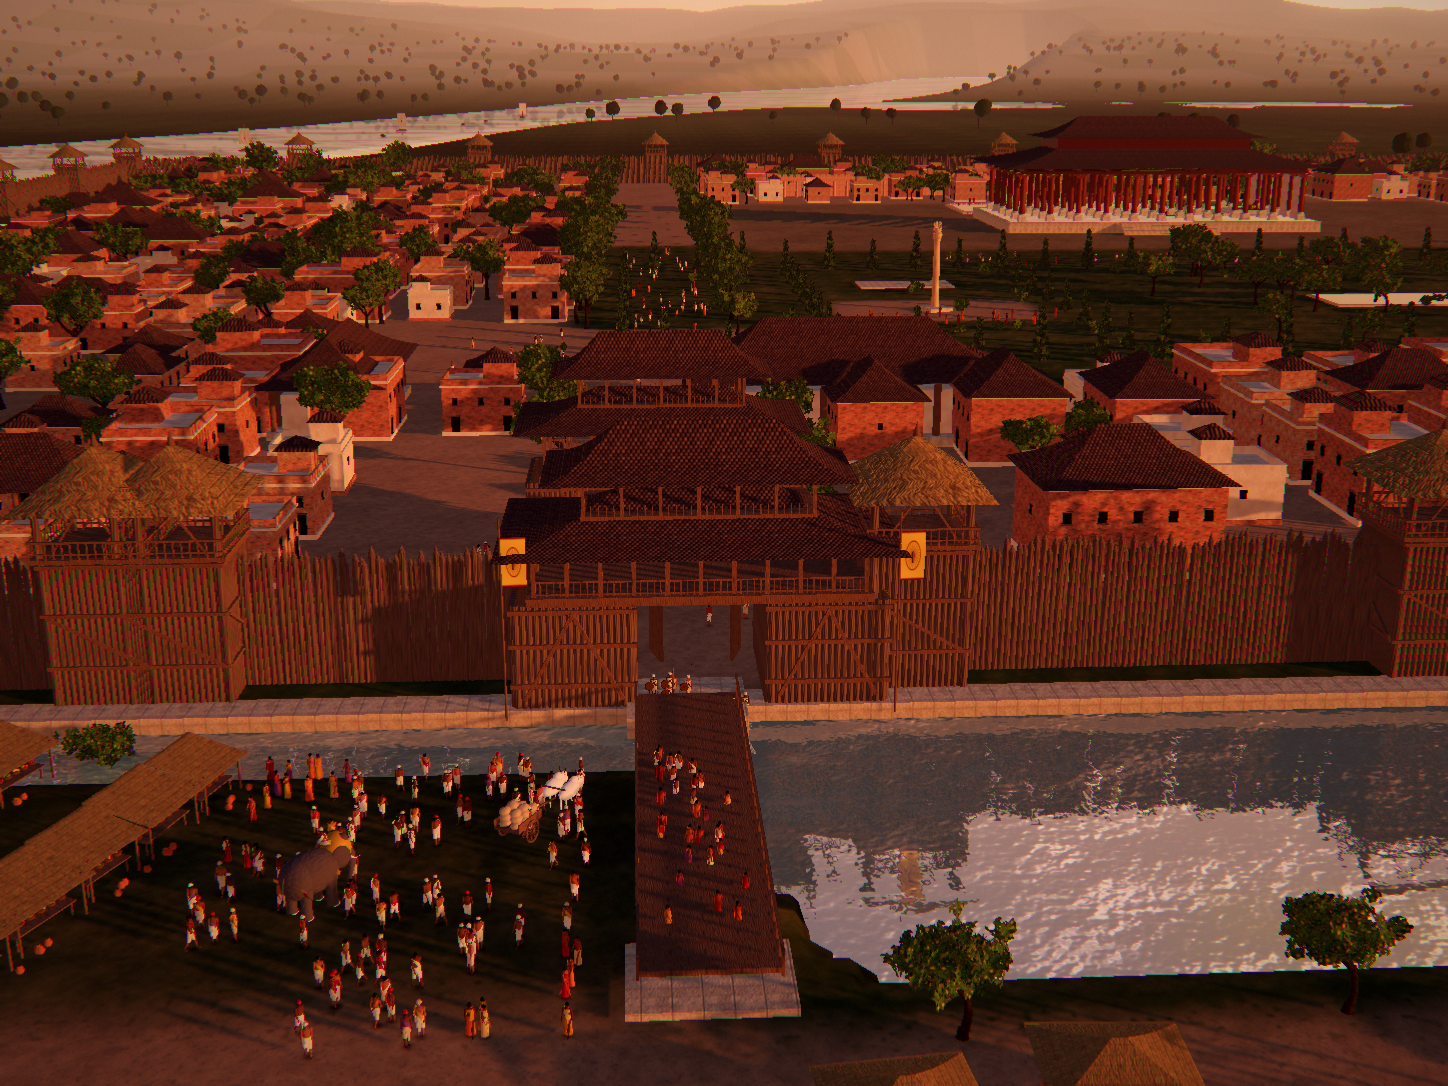
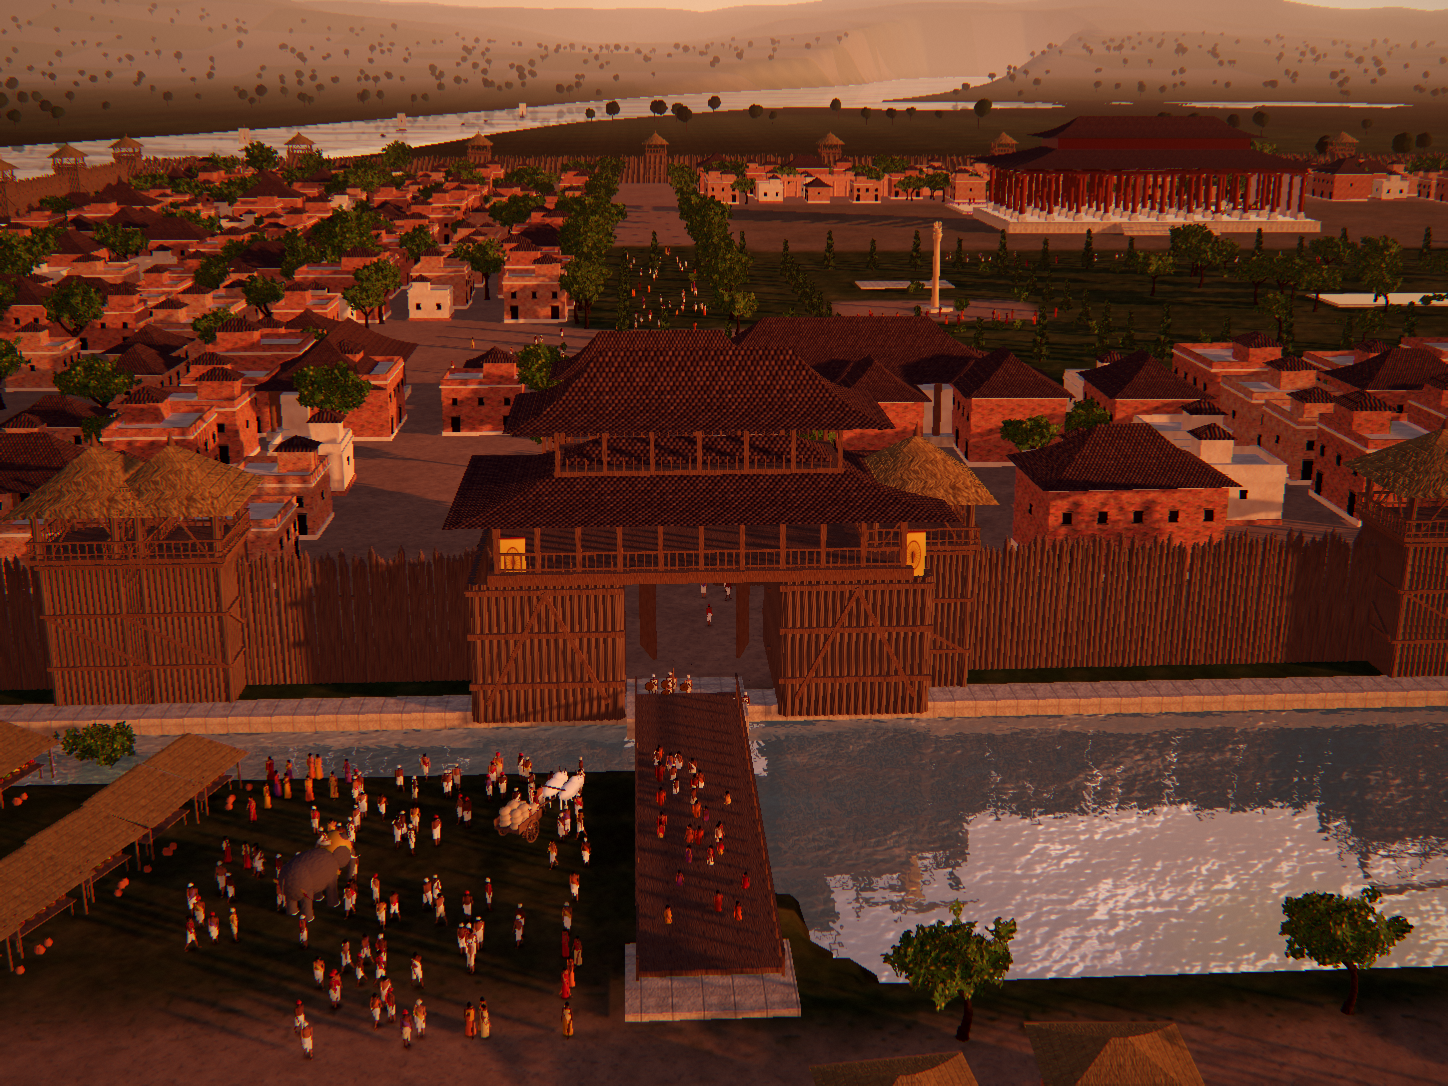
v0.8: hall reflections and re-blocking, stupa hill boulders and countryside, larger gate, denser town; add version log
Claude-Session: https://claude.ai/code/session_0162mTPdSB4sTmVTjs86gVkC

diff --git a/src/world.js b/src/world.js
@@ -1,6 +1,7 @@
 import * as THREE from 'three';
 import * as A from './assets.js';
 import { rng } from './textures.js';
+import { Reflector } from 'three/addons/objects/Reflector.js';
 import { height, HILL, MOAT, riverDist, riverHalfWidth, WATER_Y, makeGroundMask } from './env.js';
 
 const C = (h) => new THREE.Color(h);
@@ -19,7 +20,7 @@ export class Instancer {
       thatch: M.thatch, tiles: M.roofTiles, tilesRed: M.roofTilesRed, brick: M.brick, brickPale: M.brickPale, mud: M.mud, basket: M.straw,
       goods0: std({ color: 0xd8761e, roughness: 0.6 }), goods1: std({ color: 0xb02a1e, roughness: 0.5 }), goods2: std({ color: 0x6a8a2a, roughness: 0.6 }), goods3: std({ color: 0xe0b030, roughness: 0.7 }),
       sail: M.fabric(0xe0d4b8),
-      gold: M.gold, iron: M.iron, eye: std({ color: 0x1a1410, roughness: 0.3 }), lips: std({ color: 0x5a2a22, roughness: 0.6 }), stubble: std({ color: 0x4a3428, roughness: 0.8 }),
+      gold: M.gold, iron: M.iron, eye: std({ color: 0x1a1410, roughness: 0.3 }), lips: std({ color: 0x5a2a22, roughness: 0.6 }), stubble: std({ color: 0xffffff, roughness: 0.75 }),
       contact: new THREE.MeshBasicMaterial({ color: 0x000000, alphaMap: contactTex(), transparent: true, opacity: 0.75, depthWrite: false, polygonOffset: true, polygonOffsetFactor: -2 }),
     };
     for (const k of ['garment', 'shawl', 'accent']) this.base[k].side = THREE.DoubleSide;
@@ -166,7 +167,7 @@ export function buildWorld(scene, M) {
   for (const [x, z] of towersAt) { const key = Math.round(x / 8) + ',' + z; if (seen.has(key)) continue; seen.add(key); I.put('tower', x, 0, z, 0, 1); }
 
   // gatehouse
-  const gh = A.gatehouse({ w: 22, d: 11, h: 14 }); I.register('gatehouse', gh, {}); I.put('gatehouse', 0, 0, 0, 0, 1);
+  const gh = A.gatehouse({ w: 22, d: 11, h: 14 }); I.register('gatehouse', gh, {}); I.put('gatehouse', 0, 0, 0, 0, [1.2, 1.25, 1.2]);
   // inner taller gate pavilion behind
   I.register('gatehouse2', A.gatehouse({ w: 20, d: 9, h: 18 }), {}); I.put('gatehouse2', -2, 0, -24, 0, 0.95);
   // banners with chakra on poles flanking the gate
@@ -370,7 +371,7 @@ function buildPalaceHall(G, I, M, ref, person, treeAt) {
   b.add(new THREE.BoxGeometry(0.8, colH + 2, D), 'wallP', [W / 2 + 0.4, fy + (colH + 2) / 2, 0]);
   // throne dais: 4 steps
   const tx = W / 2 - 9;
-  for (let k = 0; k < 4; k++) b.add(new THREE.BoxGeometry(16 - k * 1.6, 0.3, 14 - k * 1.6), 'pstone', [tx + k * 0.8, fy + 0.15 + k * 0.3, 0]);
+  for (let k = 0; k < 4; k++) b.add(new THREE.BoxGeometry(10 - k * 1.2, 0.3, 12 - k * 1.4), 'pstone', [tx + 1 + k * 0.6, fy + 0.15 + k * 0.3, 0]);
   const dy = fy + 1.2; ref.pois.throne = new THREE.Vector3(cx + tx + 3.5, dy, cz);
   // throne: seat, back, lion armrests
   b.add(new THREE.BoxGeometry(1.6, 0.7, 1.4), 'cwood', [tx + 3.5, dy + 0.35, 0]);
@@ -381,7 +382,7 @@ function buildPalaceHall(G, I, M, ref, person, treeAt) {
   const lionG = A.lion({});
   for (const s of [-1, 1]) { const lb = new A.AB(); for (const [k, g] of Object.entries(lionG)) lb.add(g, 'gold'); b.merge(lb, [tx + 3.3, dy + 0.15, s * 1.05], [0, -Math.PI / 2, 0], 1.25); }
   // stepped carpet runner
-  b.add(new THREE.BoxGeometry(14, 0.02, 3), 'rug', [tx - 8, fy + 0.01, 0]);
+  b.add(new THREE.BoxGeometry(6, 0.02, 3), 'rug', [tx - 7, fy + 0.01, 0]);
   // low writing desks and mats
   const parts = b.build();
   const std = (o) => new THREE.MeshStandardMaterial(o);
@@ -389,22 +390,25 @@ function buildPalaceHall(G, I, M, ref, person, treeAt) {
   I.put('hall', cx, 0.4, cz, 0, 1);
   // separate polished floor (reflective-ish)
   const floor = new THREE.Mesh(new THREE.PlaneGeometry(W + 6, D + 6), M.hallFloor); floor.rotation.x = -Math.PI / 2; floor.position.set(cx, fy + 0.4 + 0.01, cz); floor.receiveShadow = true; G.add(floor);
+  const refl = new Reflector(new THREE.PlaneGeometry(W + 6, D + 6), { textureWidth: 1024, textureHeight: 576, clipBias: 0.003, color: 0xffffff });
+  refl.material.transparent = true; refl.material.depthWrite = false;
+  refl.material.fragmentShader = refl.material.fragmentShader.replace('gl_FragColor = vec4( blendOverlay( base.rgb, color ), 1.0 );', 'gl_FragColor = vec4( base.rgb * vec3(1.0, 0.92, 0.8), 0.32 );');
+  refl.rotation.x = -Math.PI / 2; refl.position.set(cx, fy + 0.4 + 0.02, cz); G.add(refl); ref.hallReflector = refl;
   // big banner behind throne
   const ban = new THREE.Mesh(new THREE.PlaneGeometry(4.2, 7.5, 6, 12), M.bannerHall);
   ban.position.set(cx + W / 2 - 0.2, fy + 6.2, cz); ban.rotation.y = -Math.PI / 2; G.add(ban);
   for (const s of [-1, 1]) { const st = new THREE.Mesh(new THREE.PlaneGeometry(0.35, 7.6), M.clothMaroon); st.position.set(cx + W / 2 - 0.25, fy + 6.2, cz + s * 2.2); st.rotation.y = -Math.PI / 2; G.add(st); }
   // brass pot of lotuses near steps
   const pot = new THREE.Mesh(A.lathe([[0, 0], [0.35, 0.05], [0.55, 0.35], [0.5, 0.7], [0.38, 0.85], [0.45, 0.95], [0.4, 0.97]], 32), M.gold);
-  const yy = fy + 0.4; pot.position.set(cx + tx - 9.5, yy, cz + 3.6); pot.castShadow = true; G.add(pot);
+  const yy = fy + 0.4; pot.position.set(cx + tx - 5.2, yy, cz + 2.4); pot.castShadow = true; G.add(pot);
   const lotusMat = new THREE.MeshStandardMaterial({ color: 0xf0a0b8, roughness: 0.6, side: THREE.DoubleSide });
   for (let i = 0; i < 9; i++) { const a = i / 9 * 6.28; const fl = new THREE.Mesh(new THREE.ConeGeometry(0.16, 0.28, 8, 1, true), lotusMat); fl.position.set(pot.position.x + Math.cos(a) * 0.25, yy + 1.1 + (i % 3) * 0.08, pot.position.z + Math.sin(a) * 0.25); fl.rotation.x = Math.PI; G.add(fl); const lf = new THREE.Mesh(new THREE.CircleGeometry(0.22, 10), new THREE.MeshStandardMaterial({ color: 0x4a6a2a, side: THREE.DoubleSide })); lf.position.set(pot.position.x + Math.cos(a + 0.3) * 0.45, yy + 0.98, pot.position.z + Math.sin(a + 0.3) * 0.45); lf.rotation.x = -Math.PI / 2 + 0.4; G.add(lf); }
   // scrolls
   const scrollG = new THREE.CylinderGeometry(0.05, 0.05, 0.5, 10); const paper = new THREE.MeshStandardMaterial({ color: 0xe0cc98, roughness: 0.8 });
-  for (let i = 0; i < 7; i++) { const s = new THREE.Mesh(scrollG, paper); s.rotation.z = Math.PI / 2; s.rotation.y = 0.3; s.position.set(cx + tx - 9 + (i % 3) * 0.1, fy + 0.4 + 0.5 + Math.floor(i / 3) * 0.1, cz + 8 - 0.2 + (i % 3) * 0.11); G.add(s); }
 
   // ---- people in the hall (floor at fy + 0.4). Composition relative to shot-2 camera.
   const Y = fy + 0.4;
-  const HC = { x: cx + 4.2, z: cz + 7.2 }; const hf = new THREE.Vector2(cx + tx + 1 - HC.x, cz - 1.5 - HC.z).normalize(); const hl = new THREE.Vector2(hf.y, -hf.x);
+  const HC = { x: cx + 18, z: cz + 7.2 }; const hf = new THREE.Vector2(cx + tx + 1 - HC.x, cz - 1.5 - HC.z).normalize(); const hl = new THREE.Vector2(hf.y, -hf.x);
   const hat = (fw, lf) => [HC.x + hf.x * fw + hl.x * lf, HC.z + hf.y * fw + hl.y * lf];
   const nearCol = (x, z) => { const gx = (x - (cx - W / 2)) / sp, gz = (z - (cz - D / 2)) / sp; return Math.hypot((gx - Math.round(gx)) * sp, (gz - Math.round(gz)) * sp) < 1.5; };
   const toThrone = (x, z) => Math.atan2(cx + tx + 3.5 - x, cz - z);
@@ -416,19 +420,19 @@ function buildPalaceHall(G, I, M, ref, person, treeAt) {
   person(cx + tx - 3.0, cz - 7.0, -Math.PI / 2 - 0.6, { type: 'noble', pose: 'stand', y: Y });
   person(cx + tx - 0.5, cz - 8.0, -Math.PI / 2 - 0.6, { type: 'man', pose: 'stand', y: Y });
   // monks in rows, left foreground leading toward the throne
-  for (let row = 0; row < 4; row++) for (let k = 0; k < 6; k++) seat(1.8 + k * 1.25 + row * 0.3, 1.3 + row * 1.25, 'monk', { turn: -0.2 });
+  for (let row = 0; row < 4; row++) for (let k = 0; k < 5; k++) seat(1.4 + k * 1.15 + row * 0.25, 1.2 + row * 1.2, 'monk', { turn: -0.2 });
   // nobles / scholars seated further along on the left (facing throne)
-  for (let row = 0; row < 3; row++) for (let k = 0; k < 4; k++) seat(10.5 + k * 1.4, 1.5 + row * 1.5, k % 2 ? 'noble' : 'man');
+  for (let row = 0; row < 3; row++) for (let k = 0; k < 4; k++) seat(3.5 + k * 1.4, 6.2 + row * 1.4, k % 2 ? 'noble' : 'man');
   // ministers seated near the dais on the right side
-  for (let k = 0; k < 6; k++) { const x = cx + tx - 5 - (k % 3) * 1.7, z = cz + 3.5 + Math.floor(k / 3) * 1.7; if (!nearCol(x, z)) person(x, z, toThrone(x, z), { type: k % 2 ? 'noble' : 'man', pose: 'sit', y: Y }); }
+  for (let k = 0; k < 6; k++) { const x = cx + tx - 4 - (k % 3) * 1.7, z = cz - 4.5 - Math.floor(k / 3) * 1.7; if (!nearCol(x, z)) person(x, z, toThrone(x, z), { type: k % 2 ? 'noble' : 'man', pose: 'sit', y: Y }); }
   // scribes at low desks, right foreground
   const scribeDesk = new A.AB();
-  for (const [fw, lf] of [[3.4, -2.4], [5.6, -3.2]]) { const [x, z] = hat(fw, lf); if (nearCol(x, z)) continue; person(x, z, toThrone(x, z) + 0.5, { type: 'scribe', pose: 'sit', y: Y }); const [dx, dz] = hat(fw + 0.75, lf + 0.15); scribeDesk.add(new THREE.BoxGeometry(1.1, 0.42, 0.6), 'cwood', [dx - cx, fy + 0.21, dz - cz], [0, toThrone(x, z) + 0.5, 0]); }
+  for (const [fw, lf] of [[2.6, -2.2], [4.6, -3.0]]) { const [x, z] = hat(fw, lf); if (nearCol(x, z)) continue; person(x, z, toThrone(x, z) + 0.5, { type: 'scribe', pose: 'sit', y: Y }); const [dx, dz] = hat(fw + 0.75, lf + 0.15); scribeDesk.add(new THREE.BoxGeometry(1.1, 0.42, 0.6), 'cwood', [dx - cx, fy + 0.21, dz - cz], [0, toThrone(x, z) + 0.5, 0]); for (let q = 0; q < 4; q++) scribeDesk.add(new THREE.CylinderGeometry(0.045, 0.045, 0.42, 10), 'paper', [dx - cx + (q % 2) * 0.1 - 0.05, fy + 0.47 + Math.floor(q / 2) * 0.08, dz - cz + (q % 2) * 0.09], [0, toThrone(x, z) + 0.5, Math.PI / 2]); }
   // standing courtiers in the far back right
   for (let i = 0; i < 10; i++) { const x = cx + tx - 14 + (i % 5) * 2.4, z = cz - 10 - Math.floor(i / 5) * 2; if (!nearCol(x, z)) person(x, z, toThrone(x, z), { type: i % 2 ? 'noble' : 'man', pose: 'stand', y: Y }); }
   // mats under the monk rows
   for (let row = 0; row < 4; row++) { const [x, z] = hat(5.2 + row * 0.3, 1.3 + row * 1.25); scribeDesk.add(new THREE.BoxGeometry(8, 0.03, 1.1), 'mat', [x - cx, fy + 0.015, z - cz], [0, Math.atan2(hf.x, hf.y) + Math.PI / 2, 0]); }
-  I.register('hallProps', scribeDesk.build(), { mats: { cwood: M.carvedWood, mat: new THREE.MeshStandardMaterial({ color: 0xc8b07a, map: M.thatch.map, roughness: 1 }) } }); I.put('hallProps', cx, 0.4, cz, 0, 1);
+  I.register('hallProps', scribeDesk.build(), { mats: { paper: new THREE.MeshStandardMaterial({ color: 0xe0cc98, roughness: 0.8 }), cwood: M.carvedWood, mat: new THREE.MeshStandardMaterial({ color: 0xc8b07a, map: M.thatch.map, roughness: 1 }) } }); I.put('hallProps', cx, 0.4, cz, 0, 1);
   // ---- garden north of hall with lotus pond + fountains (visible through open side)
   const gp = new THREE.Mesh(new THREE.PlaneGeometry(60, 24), new THREE.MeshStandardMaterial({ color: 0x3a5a58, roughness: 0.04, metalness: 0.3 }));
   gp.rotation.x = -Math.PI / 2; gp.position.set(cx - 10, 0.75, cz - D / 2 - 26); G.add(gp);
@@ -515,10 +519,11 @@ function buildStupaHill(G, I, M, ref, person, treeAt) {
   const r = rng(91);
   for (let i = 0; i < 220; i++) { const a = r() * 6.28, d = 30 + r() * 110; const x = sx + Math.cos(a) * d, z = sz + Math.sin(a) * d; I.ground('rock' + (i % 4), x, z, r() * 6, 0.4 + r() * 1.6, { dy: -0.25 }); }
   for (let i = 0; i < 9000; i++) { const a = r() * 6.28, d = R * 1.18 + 4 + Math.pow(r(), 1.6) * 110; const x = sx + Math.cos(a) * d, z = sz + Math.sin(a) * d; const [cx2, cz2] = at(4, 0); if (Math.hypot(x - cx2, z - cz2) < 3) continue; I.ground('grass', x, z, r() * 6, 0.7 + r() * 0.8); }
-  for (const [fw, lf, s] of [[2.5, 5.5, 1.5], [4.5, 8.5, 1.9], [1.5, 9.5, 2.2], [7, 12.5, 1.3], [3, 3.6, 0.6], [6, 4.2, 0.45], [9, 3.6, 0.5]]) { const [x, z] = at(fw, lf); I.ground('rock' + ((fw * 3 | 0) % 4), x, z, fw * 2, s, { dy: -0.18 * s }); }
+  for (const [fw, lf, s] of [[4, 2.6, 1.2], [6, 3.9, 2.0], [9, 6.2, 2.6], [5, 1.5, 0.6], [12, 7.5, 1.8], [3, 1.7, 0.5], [7.5, 5.0, 1.0], [3.2, 2.4, 0.8]]) { const [x, z] = at(fw, lf); I.ground('rock' + ((fw * 3 | 0) % 4), x, z, fw * 2, s, { dy: -0.18 * s }); }
   // path edging stones along both sides of the path to the stairs
   for (let i = 0; i < 26; i++) { const fw = 3 + i * 0.9; for (const lf of [1.9, -2.2]) { const [x, z] = at(fw, lf + Math.sin(i) * 0.2); I.ground('rock' + (i % 4), x, z, i, 0.22 + r() * 0.1, { dy: -0.04 }); } }
   for (let i = 0; i < 60; i++) { const a = r() * 6.28, d = 55 + r() * 150; treeAt(sx + Math.cos(a) * d, sz + Math.sin(a) * d, 0.9); }
+  for (let i = 0; i < 900; i++) { const a = r() * 6.28, d = 260 + r() * 1400; const x = sx + Math.cos(a) * d, z = sz + Math.sin(a) * d; if (height(x, z) < 0.3 || Math.abs(x - 880) < 120 && Math.abs(z - 270) < 120 || (x > -300 && x < 400 && z > -520 && z < 160)) continue; treeAt(x, z, 1.1, d > 500); }
   // big overhanging tree near the camera (top right) and one far left
   { const [x, z] = at(5, -9); I.ground('treeBig', x, z, 2.0, 1.0); }
   { const [x, z] = at(22, 30); I.ground('treeBig2', x, z, 0.4, 1.0); }
@@ -607,9 +612,9 @@ function buildTown(G, I, M, ref, person, treeAt, oxCart, mahoutElephant) {
   person(sx + 10.5, 338, -0.3, { type: 'woman', pose: 'walk', y: Y }); person(sx + 10.8, 342, 0.2, { type: 'woman', pose: 'stand', y: Y });
   person(sx - 9.6, 344, Math.PI / 2, { type: 'man', pose: 'stand', y: Y }); person(sx - 8.8, 340, -Math.PI / 2 - 0.2, { type: 'woman', pose: 'stand', y: Y });
   oxCart(sx - 1.0, 280, 0.05, 'sacks');
-  mahoutElephant(sx + 7.5, 312, 0.1, 'elephantH'); mahoutElephant(sx + 5, 262, 0.05, 'elephant'); mahoutElephant(sx + 2, 240, 0.1, 'elephant');
+  mahoutElephant(sx + 9.5, 322, -0.15, 'elephantH'); mahoutElephant(sx + 5, 262, 0.05, 'elephant'); mahoutElephant(sx + 2, 240, 0.1, 'elephant');
   const r = rng(51);
-  for (let q = 0; q < 140; q++) { const zz = 190 + r() * 140, xx = sx - 7 + r() * 15; person(xx, zz, r() < 0.6 ? (r() - 0.5) * 0.6 : Math.PI + (r() - 0.5) * 0.6, { y: Y }); }
+  for (let q = 0; q < 280; q++) { const zz = 190 + r() * 140, xx = sx - 7 + r() * 15; person(xx, zz, r() < 0.6 ? (r() - 0.5) * 0.6 : Math.PI + (r() - 0.5) * 0.6, { y: Y }); }
   for (let q = 0; q < 16; q++) person(sx - 6 + r() * 10, 230 - r() * 25, Math.PI, { type: 'soldier', pose: 'walk', y: Y });
   // town outskirts houses (fill around street, behind facades)
   const r2 = rng(61);

diff --git a/src/shots.js b/src/shots.js
@@ -4,7 +4,7 @@ export const SHOTS = {
        sun: { az: 152, el: 3.2 }, light: { az: 62, el: 11 }, sky: { zenith: 0x5a6a9a, horizon: 0xf0b8a0, band: 0xffa070, bandAmt: 0.9, glow: 2.2, sunCol: 0xffc890, intensity: 1.3 }, exposure: 0.85, cloud: 0.6,
        fog: { color: 0xe8b8a0, density: 0.00022 }, shadow: { center: [40, 0, -120], size: 420 },
        grade: { lift: [0.03, 0.01, 0.02], gain: [1.08, 0.98, 0.9], sat: 1.12, contrast: 1.06 }, sunInt: 3.2, sunCol: 0xffb07a, hemi: 0.5 },
-  2: { name: 'palace_hall', pos: [134.2, 4.6, -307.8], target: [158, 3.7, -316.5], fov: 62,
+  2: { name: 'palace_hall', pos: [148, 4.55, -307.8], target: [158, 4.1, -318.5], fov: 62,
        sun: { az: -140, el: 34 }, env: 0.6, sky: { zenith: 0x4a7ac8, horizon: 0xd8e4ee, glow: 0.4, intensity: 1.3 }, exposure: 0.75, cloud: 0.62,
        fog: { color: 0xc8d4dc, density: 0.0012 }, shadow: { center: [130, 0, -315], size: 110 },
        grade: { lift: [0.03, 0.015, 0.0], gain: [1.1, 1.0, 0.86], sat: 1.12, contrast: 1.06 }, sunInt: 5.0, sunCol: 0xffd8a8, hemi: 0.7 },

diff --git a/src/main.js b/src/main.js
@@ -59,6 +59,7 @@ export function applyShot(S) {
 }
 window.renderShot = async (id, time = 0) => {
   const S = SHOTS[id]; applyShot(S);
+  if (world.ref.hallReflector) world.ref.hallReflector.visible = id == 2;
   water.material.uniforms.time.value = time; clouds.material.uniforms.time.value = time;
   const t1 = performance.now(); comp.render(); comp.render(); const gl = renderer.getContext(); const px = new Uint8Array(4); gl.readPixels(0, 0, 1, 1, gl.RGBA, gl.UNSIGNED_BYTE, px);
   log('rendered shot', id, (performance.now() - t1) | 0, 'ms');

diff --git a/VERSIONS.md b/VERSIONS.md
@@ -1,0 +1,17 @@
+# Version log
+
+Each version keeps its approval stills and a reference-vs-render comparison in `versions/vX.Y/`.
+Shots: 1 = city gate at sunset, 2 = palace audience hall, 3 = stupa hill with Ashoka pillar, 4 = market street with inscribed pillar.
+Render times are per frame at 1448×1086 in headless Chromium with software WebGL (SwiftShader, 4 CPU cores).
+
+| Version | Outputs | Summary |
+|---|---|---|
+| v0.0 | lost | First session: texture/material library and render pipeline. Lost when the cloud container was reset. |
+| v0.1 | not kept | Rebuild from scratch. Textures, materials, asset library (people, elephants, oxen, carts, trees, pillars, stupa, towers, gatehouse, houses, stalls, boats), terrain, water, sky, world layout, four shot cameras. |
+| v0.2 | not kept | Shot 1 camera solved from the reference landmarks (horizon, gate, moat). Moat narrowed left of the bridge so the market sits on the near bank. Ground mask Y-flip fixed (streets were rendering as grass). Hall garden moved north. |
+| v0.3 | not kept | Shot 1 key light swung to light the wall face. Hall camera moved out of a column. Stupa camera pulled in to about 38 m. Cooler skies, less fog. |
+| v0.4 | not kept | Replaced the physical sky with an art-directed gradient sky (blue daytime, pink/orange sunset). Stupa proportions corrected (lower drum, slimmer harmika). Stone toned from white to weathered beige. |
+| v0.5 | not kept | Hall re-blocked with people placed around the camera and kept clear of columns. Throne-side figures orientation fixed. Hall column spacing 7.2 m. |
+| v0.6 | not kept | Fixed a black rectangle artefact (NaN pixels spread by the bloom mip chain; added a NaN-scrub pass). Found true render times (15–35 s per frame). |
+| v0.7 | [v0.7](versions/v0.7/compare.jpg) | New human generator: tapered anatomical limbs, jaw, nose, brows and lips, draped dhoti, robe, sari pleats, ribbon sashes, jewellery, contact shadows. Shadow bias fixed so legs cast shadows. Finer grass, distant ridgelines, warmer hall grading. |
+| v0.8 | [v0.8](versions/v0.8/compare.jpg) | Hall: camera 14 m from the throne, smaller dais, polished-floor reflections, lotus pot at the steps, scribes with scroll desks, monks in rows at left. Stupa hill: granite boulders framing the left foreground, about 900 more countryside trees. City: gatehouse scaled up 1.2×. Town: crowd doubled, howdah elephant moved to the right foreground. |
